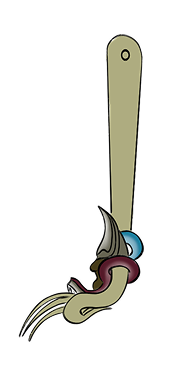
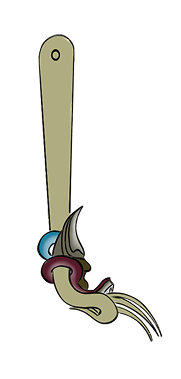
Face all puppet art right, and give every character a skin
Two related fixes to how character art is oriented and applied.

Facing: puppet art was drawn in whichever direction the artist
happened to use - Anoman and Sura faced right, Baya and Dasamuka
faced left - and each consumer compensated in its own way. Mirror
Baya's and Dasamuka's PNGs so every asset in asset/ now faces right,
and make that the single convention: player 1 uses the art as drawn,
player 2 is mirrored to face left. CharacterSkin drops its per-skin
"facing" field and mirrors on one rule instead (the rig faces left).
fighter_2 keeps rendering exactly as before via flip_h.

This also fixes the select screen, where the big preview flipped
purely on player side while the stand-in rig is chosen per character.
Dasamuka, Bima and Gatotkaca stand in on fighter_2, so they came out
backwards on both sides - facing left for P1 and right for P2.
CharacterDisplay now mirrors against the rig's own facing.

Skins: SKINS only had Sura and Baya, so Anoman and Dasamuka kept
whatever art their rig scene was built with, tinted with the roster
colour as a placeholder. That works only while each character sits
on its home rig - picking Dasamuka for player 1 handed you a
red-tinted Anoman, and Anoman for player 2 a cream-tinted Dasamuka.
Both now have real entries, transcribed from the poses authored in
fighter_1.tscn and fighter_2.tscn, so any character works on either
rig.

Supporting that needed three additions to the skin format, all
[…]

Changed region(s): [[0.1105, 0.0871, 0.9116, 0.8997], [0.442, 0.5224, 0.4696, 0.5515]]

diff --git a/asset/characters/README.md b/asset/characters/README.md
@@ -18,7 +18,18 @@ asset/characters/<id>/select.png
 - **`select.png`** - the big side render shown when that character is
   hovered/locked. Recommended 1024x1600, transparent PNG, full body, feet at
   the bottom of the canvas (the display anchors the puppet by its feet, not
-  its center). Drawn facing right - P2's side mirrors it automatically.
+  its center).
+
+## Facing
+
+**Draw everything facing right.** That goes for these two files and for the
+puppet art in `asset/Wayang<Name>/` as well - there is one facing in the
+project and it is right. Nothing is ever authored facing left.
+
+Player 1 uses the art as drawn. Player 2 is mirrored to face left for you,
+both on the select screen and in the arena, so a character works on either
+side without a second set of files. The grid tiles are shared between the two
+players, so those stay right-facing.
 
 Both files are optional and independent: a character can have a portrait
 without a select render, or vice versa. Whatever is missing falls back to a
